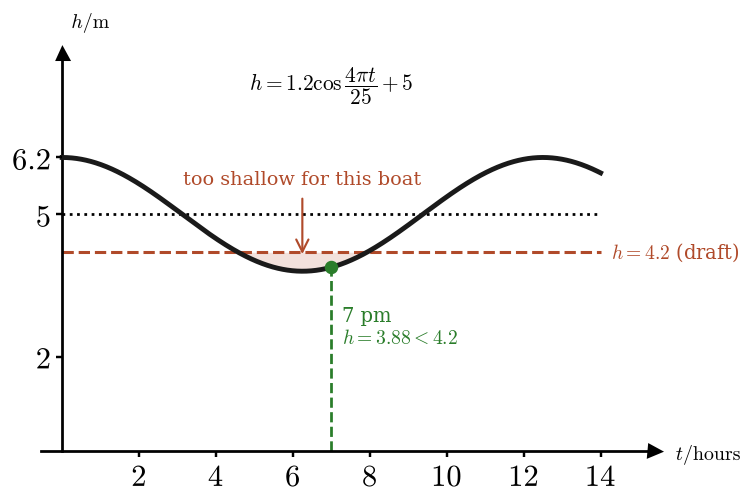
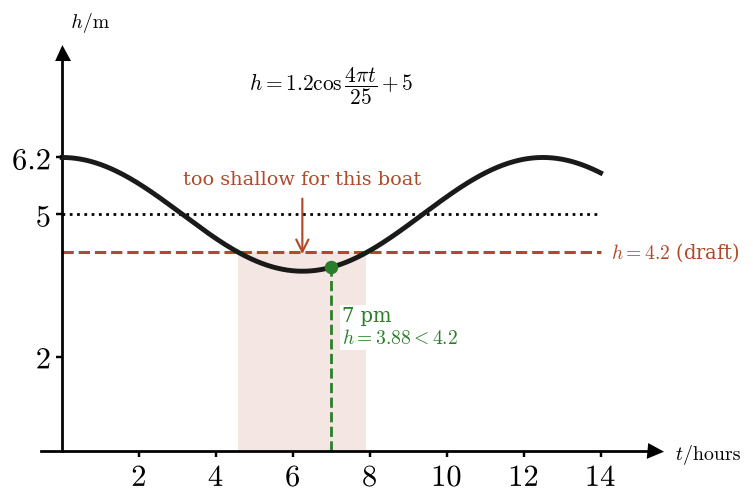
threshold_graph: shade the whole stretch where the answer is no
A shallow dip made the curve-to-level fill a sliver nobody could see on the
page. The question is about a STRETCH OF TIME, so the shading now fills the
whole strip of x from the axis up to the level (or level to ceiling when the
failure is going over it).

Changed region(s): [[0.3054, 0.51, 0.4887, 0.9]]

diff --git a/.claude/skills/create-worksheet/trig_figures/context_graph.py b/.claude/skills/create-worksheet/trig_figures/context_graph.py
@@ -30,7 +30,8 @@ def threshold_graph(out, fn, xmax, ymax, xticks, yticks, level, level_label,
 
     `below=True` shades where the curve is UNDER the level (a minimum depth, a
     minimum height); pass False for a question that fails when the curve is over
-    the level.  `at` is the x the question names — a dashed drop to the curve and
+    the level.  The shading fills the whole strip of x, so the picture says "this
+    stretch is no good" rather than outlining a sliver.  `at` is the x the question names — a dashed drop to the curve and
     the value written beside it, so the student sees the number come off the graph.
     """
     f, ax = plt.subplots(figsize=figsize)
@@ -38,7 +39,12 @@ def threshold_graph(out, fn, xmax, ymax, xticks, yticks, level, level_label,
     y = fn(x)
 
     bad = (y < level) if below else (y > level)
-    ax.fill_between(x, y, level, where=bad, color=DIM, alpha=0.16, lw=0, zorder=1)
+    # the WHOLE strip of x where the answer is no, floor to level (or level to
+    # ceiling), not the thin slice between curve and level: on a shallow dip that
+    # slice is a sliver nobody can see, and it is the STRETCH OF TIME the question
+    # is about
+    lo_y, hi_y = (0.0, level) if below else (level, ymax)
+    ax.fill_between(x, lo_y, hi_y, where=bad, color=DIM, alpha=0.13, lw=0, zorder=0)
     if centre is not None:
         ax.plot([0, xmax], [centre, centre], 'k', ls=':', lw=0.9, zorder=1)
     ax.plot(x, y, color=CURVE, lw=1.6, zorder=3)
